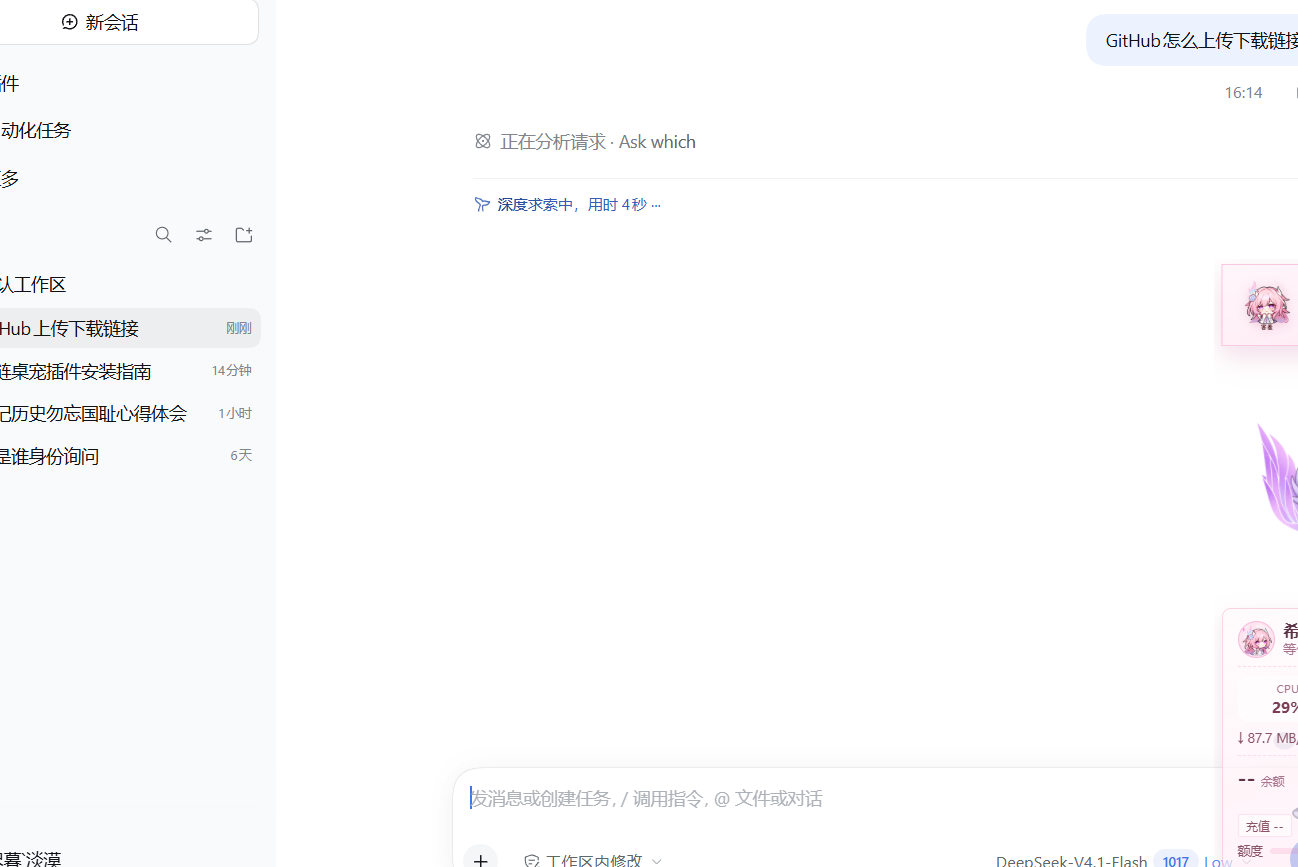
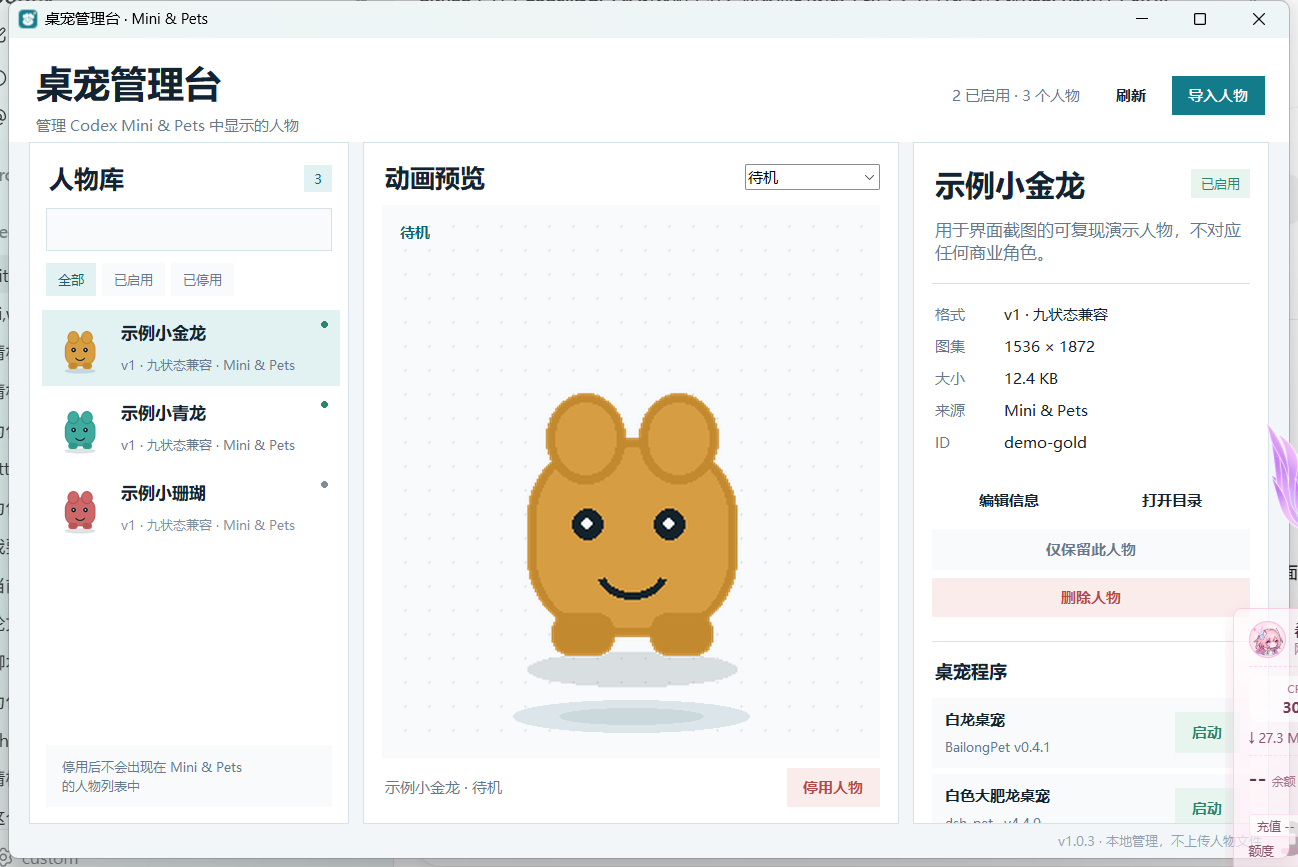
Fix header subtitle overlap at high DPI

diff --git a/pet_manager.py b/pet_manager.py
@@ -25,7 +25,7 @@ from pet_core import PetRecord, PetRepository
 
 
 APP_TITLE = "桌宠管理台"
-APP_VERSION = "1.0.2"
+APP_VERSION = "1.0.3"
 
 PALETTE = {
     "bg": "#F3F6F8",
@@ -467,9 +467,10 @@ class PetManagerApp:
     def _build_ui(self):
         self.root.grid_rowconfigure(1, weight=1)
         self.root.grid_rowconfigure(2, minsize=24)
+        self.root.grid_rowconfigure(0, minsize=104)
         self.root.grid_columnconfigure(0, weight=1)
 
-        header = tk.Frame(self.root, bg=PALETTE["surface"], height=88)
+        header = tk.Frame(self.root, bg=PALETTE["surface"], height=104)
         header.grid(row=0, column=0, sticky="ew")
         header.grid_propagate(False)
         header.grid_columnconfigure(1, weight=1)

diff --git a/README.md b/README.md
@@ -23,7 +23,7 @@
 从 GitHub Releases 下载：
 
 ```text
-CodexPetManager-v1.0.2-windows-x64.zip
+CodexPetManager-v1.0.3-windows-x64.zip
 ```
 
 完整解压后运行：
@@ -104,14 +104,14 @@ python -m unittest discover -s tests -v
 构建 Windows 单文件版本：
 
 ```powershell
-.\build.ps1 -Version 1.0.2
+.\build.ps1 -Version 1.0.3
 ```
 
 产物位于 `release/`。
 
 ## 发布到 GitHub
 
-仓库已经包含 `.github/workflows/build.yml`。推送 `v1.0.2` 标签后，Actions 会自动：
+仓库已经包含 `.github/workflows/build.yml`。推送 `v1.0.3` 标签后，Actions 会自动：
 
 1. 运行测试
 2. 构建 Windows 单文件程序
@@ -121,8 +121,8 @@ python -m unittest discover -s tests -v
 ```powershell
 git remote add origin https://github.com/<your-name>/<repo>.git
 git push -u origin main
-git tag v1.0.2
-git push origin v1.0.2
+git tag v1.0.3
+git push origin v1.0.3
 ```
 
 ## 隐私与数据

diff --git a/CHANGELOG.md b/CHANGELOG.md
@@ -1,5 +1,11 @@
 # Changelog
 
+## v1.0.3
+
+- Fixed the header subtitle overlapping the top of the Mini & Pets library panel at 125% DPI.
+- Added an explicit 104 px header row height so title and subtitle remain inside the header.
+- Rechecked text bounds and panel positions at 1080, 1280, and 1440 pixel window widths.
+
 ## v1.0.2
 
 - Fixed the center preview collapsing when the side panels requested wider text layouts.
